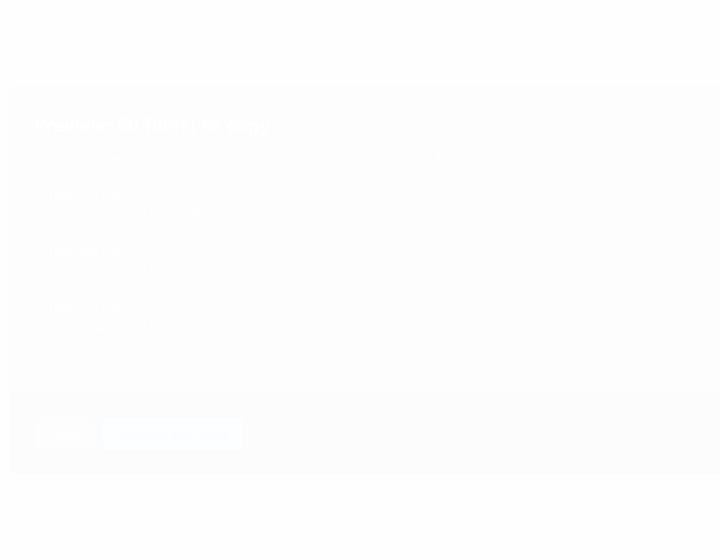
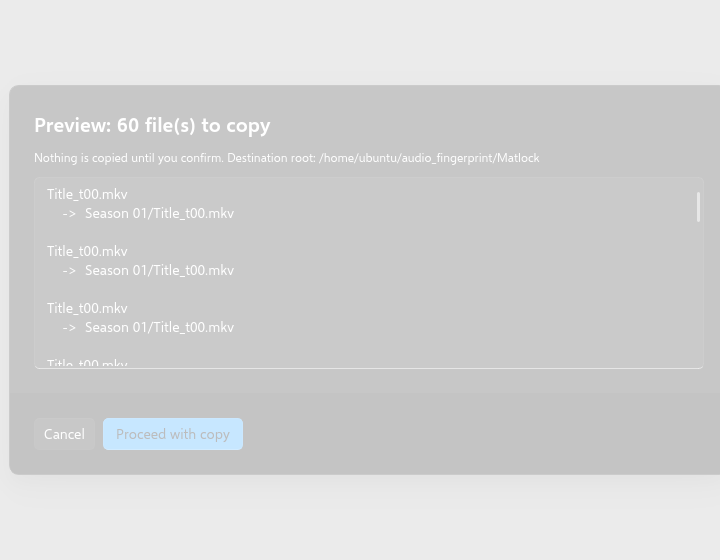
GUI fix: proper text color contrast in light mode
- Table text now uses QPalette.WindowText for theme-aware color instead of
  hardcoded values, ensuring proper contrast in both light and dark modes.
- Light mode: text renders as near-black (#000000) against light backgrounds.
- Dark mode: text renders as light color against dark backgrounds.
- Fixes readability issue where table text appeared washed out in light mode.

diff --git a/gui/pages/identify.py b/gui/pages/identify.py
@@ -12,7 +12,7 @@ if TYPE_CHECKING:
     from ..main_window import MainWindow
 
 from PySide6.QtCore import Qt, QTimer
-from PySide6.QtGui import QBrush, QColor
+from PySide6.QtGui import QBrush, QColor, QPalette
 from PySide6.QtWidgets import (
     QAbstractItemView,
     QApplication,
@@ -1013,6 +1013,9 @@ class IdentifyInterface(QWidget):
             item.setToolTip(tooltip)
         elif text.strip():
             item.setToolTip(text)
+        # Use the application palette's text color for proper theme-aware contrast
+        palette = QApplication.instance().palette()
+        item.setForeground(palette.color(QPalette.WindowText))
         return item
 
     @staticmethod
